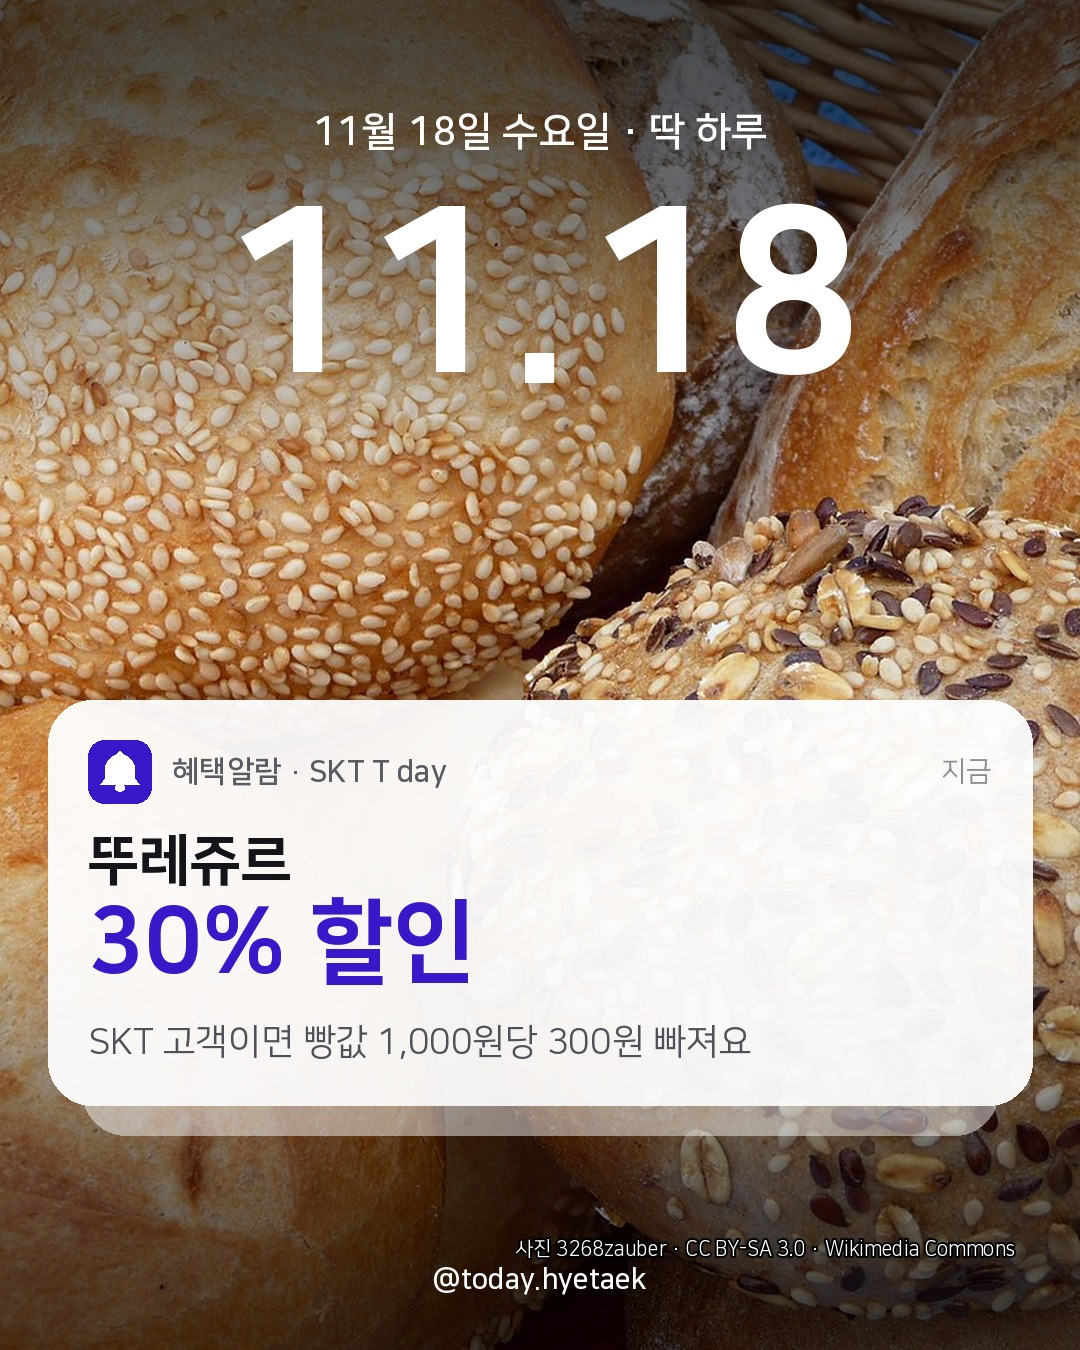
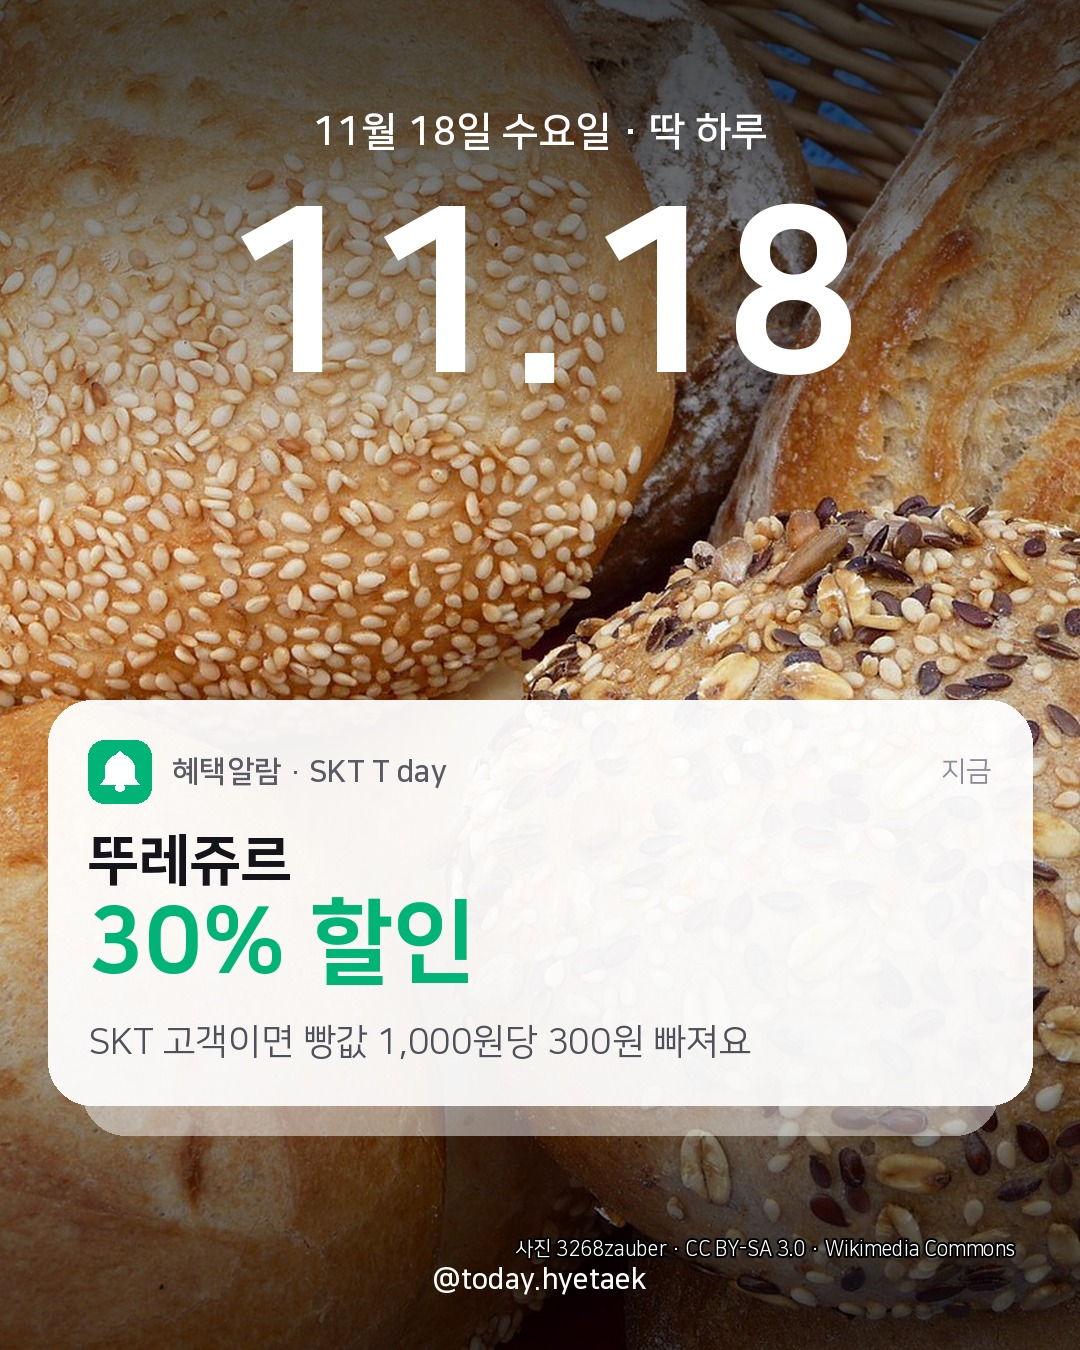
혜택알람 고유 색(에메랄드 그린): 배경·강조는 채널 색, 통신사 색은 쿠폰 라벨에만
Claude-Session: https://claude.ai/code/session_013eU9upJ36tdqKzB4UjrVYH

Changed region(s): [[0.0917, 0.6533, 0.4583, 0.7467], [0.0611, 0.5289, 0.1528, 0.6222]]

diff --git a/screendaily/cards.py b/screendaily/cards.py
@@ -827,11 +827,16 @@ def _post_credit(post: Post) -> str:
 
 
 def _alarm_colors(post: Post, config: dict) -> tuple[dict, tuple[int, int, int]]:
-    """(splash 배경 설정, 강조색). 게시물 brand → 채널 alarm_color 순."""
-    b = post_splash(post, config)
-    sp = (b or {}).get("splash") or (config.get("alarm") or {}).get("splash") or ALARM_DEFAULT
-    acc = hex2rgb((b or {}).get("accent") or (config.get("alarm") or {}).get("accent") or sp["base"])
-    return sp, acc
+    """(배경 splash, 강조색): 항상 채널 고유 색 (config 채널의 alarm:). 통신사 brand 는 라벨에만 씀."""
+    a = config.get("alarm") or {}
+    sp = a.get("splash") or ALARM_DEFAULT
+    return sp, hex2rgb(a.get("accent") or sp["base"])
+
+
+def _label_color(post: Post, config: dict, default) -> tuple[int, int, int]:
+    """게시물 brand(SKT/KT/LGU)가 있으면 그 통신사 색, 없으면 채널 강조색."""
+    b = (config.get("brands") or {}).get(post.brand.upper()) if post.brand else None
+    return hex2rgb(b["accent"]) if b and b.get("accent") else default
 
 
 def _bell(d: ImageDraw.ImageDraw, cx: float, cy: float, r: float, color):
@@ -955,8 +960,8 @@ def render_coupon(post: Post, item: Item, idx: int, total: int, config: dict) ->
     d = ImageDraw.Draw(canvas)
 
     y = ty0 + pad
-    if item.stage:
-        pill(d, tx0 + pad, y, item.stage, font(EB, 30), acc, (255, 255, 255), pad=(22, 12))
+    if item.stage:  # 통신사 혜택이면 그 통신사 색 라벨
+        pill(d, tx0 + pad, y, item.stage, font(EB, 30), _label_color(post, config, acc), (255, 255, 255), pad=(22, 12))
         y += 60 + 6
     if item.year:
         bf = big

diff --git a/README.md b/README.md
@@ -133,7 +133,8 @@ git add queue && git commit -m "다음 주 예약" && git push
 - 쿠폰 티켓: `type: coupon` — `stage` = 라벨, `year` = 큰 숫자(예: 30%), `title` = 쿠폰 이름,
   `desc` 줄마다 `항목 | 내용` (예: `언제 | 11월 18일 (수) 하루`)
 - 공식 이벤트 이미지를 그대로 한 장 넣으려면 `type: photo` + `image:` (저작권 주의)
-- 사진: 쿠폰 카드의 `wiki:` 또는 `image:` → 표지 배경으로 씀. 색은 게시물 `brand:` (없으면 남보라)
+- 사진: 쿠폰 카드의 `wiki:` 또는 `image:` → 표지 배경으로 씀
+- 색: 항상 혜택알람 고유 색(`config.yml` 채널의 `alarm:`). 통신사 혜택이면 `brand: SKT` 처럼 적어 쿠폰 라벨만 그 통신사 색
 - 마지막 장: 채널 설정 `outro.style: toggle` → '혜택 알람' 스위치가 켜진 장
 - 예시: `drafts/deal_touslesjours_1118/`
 
